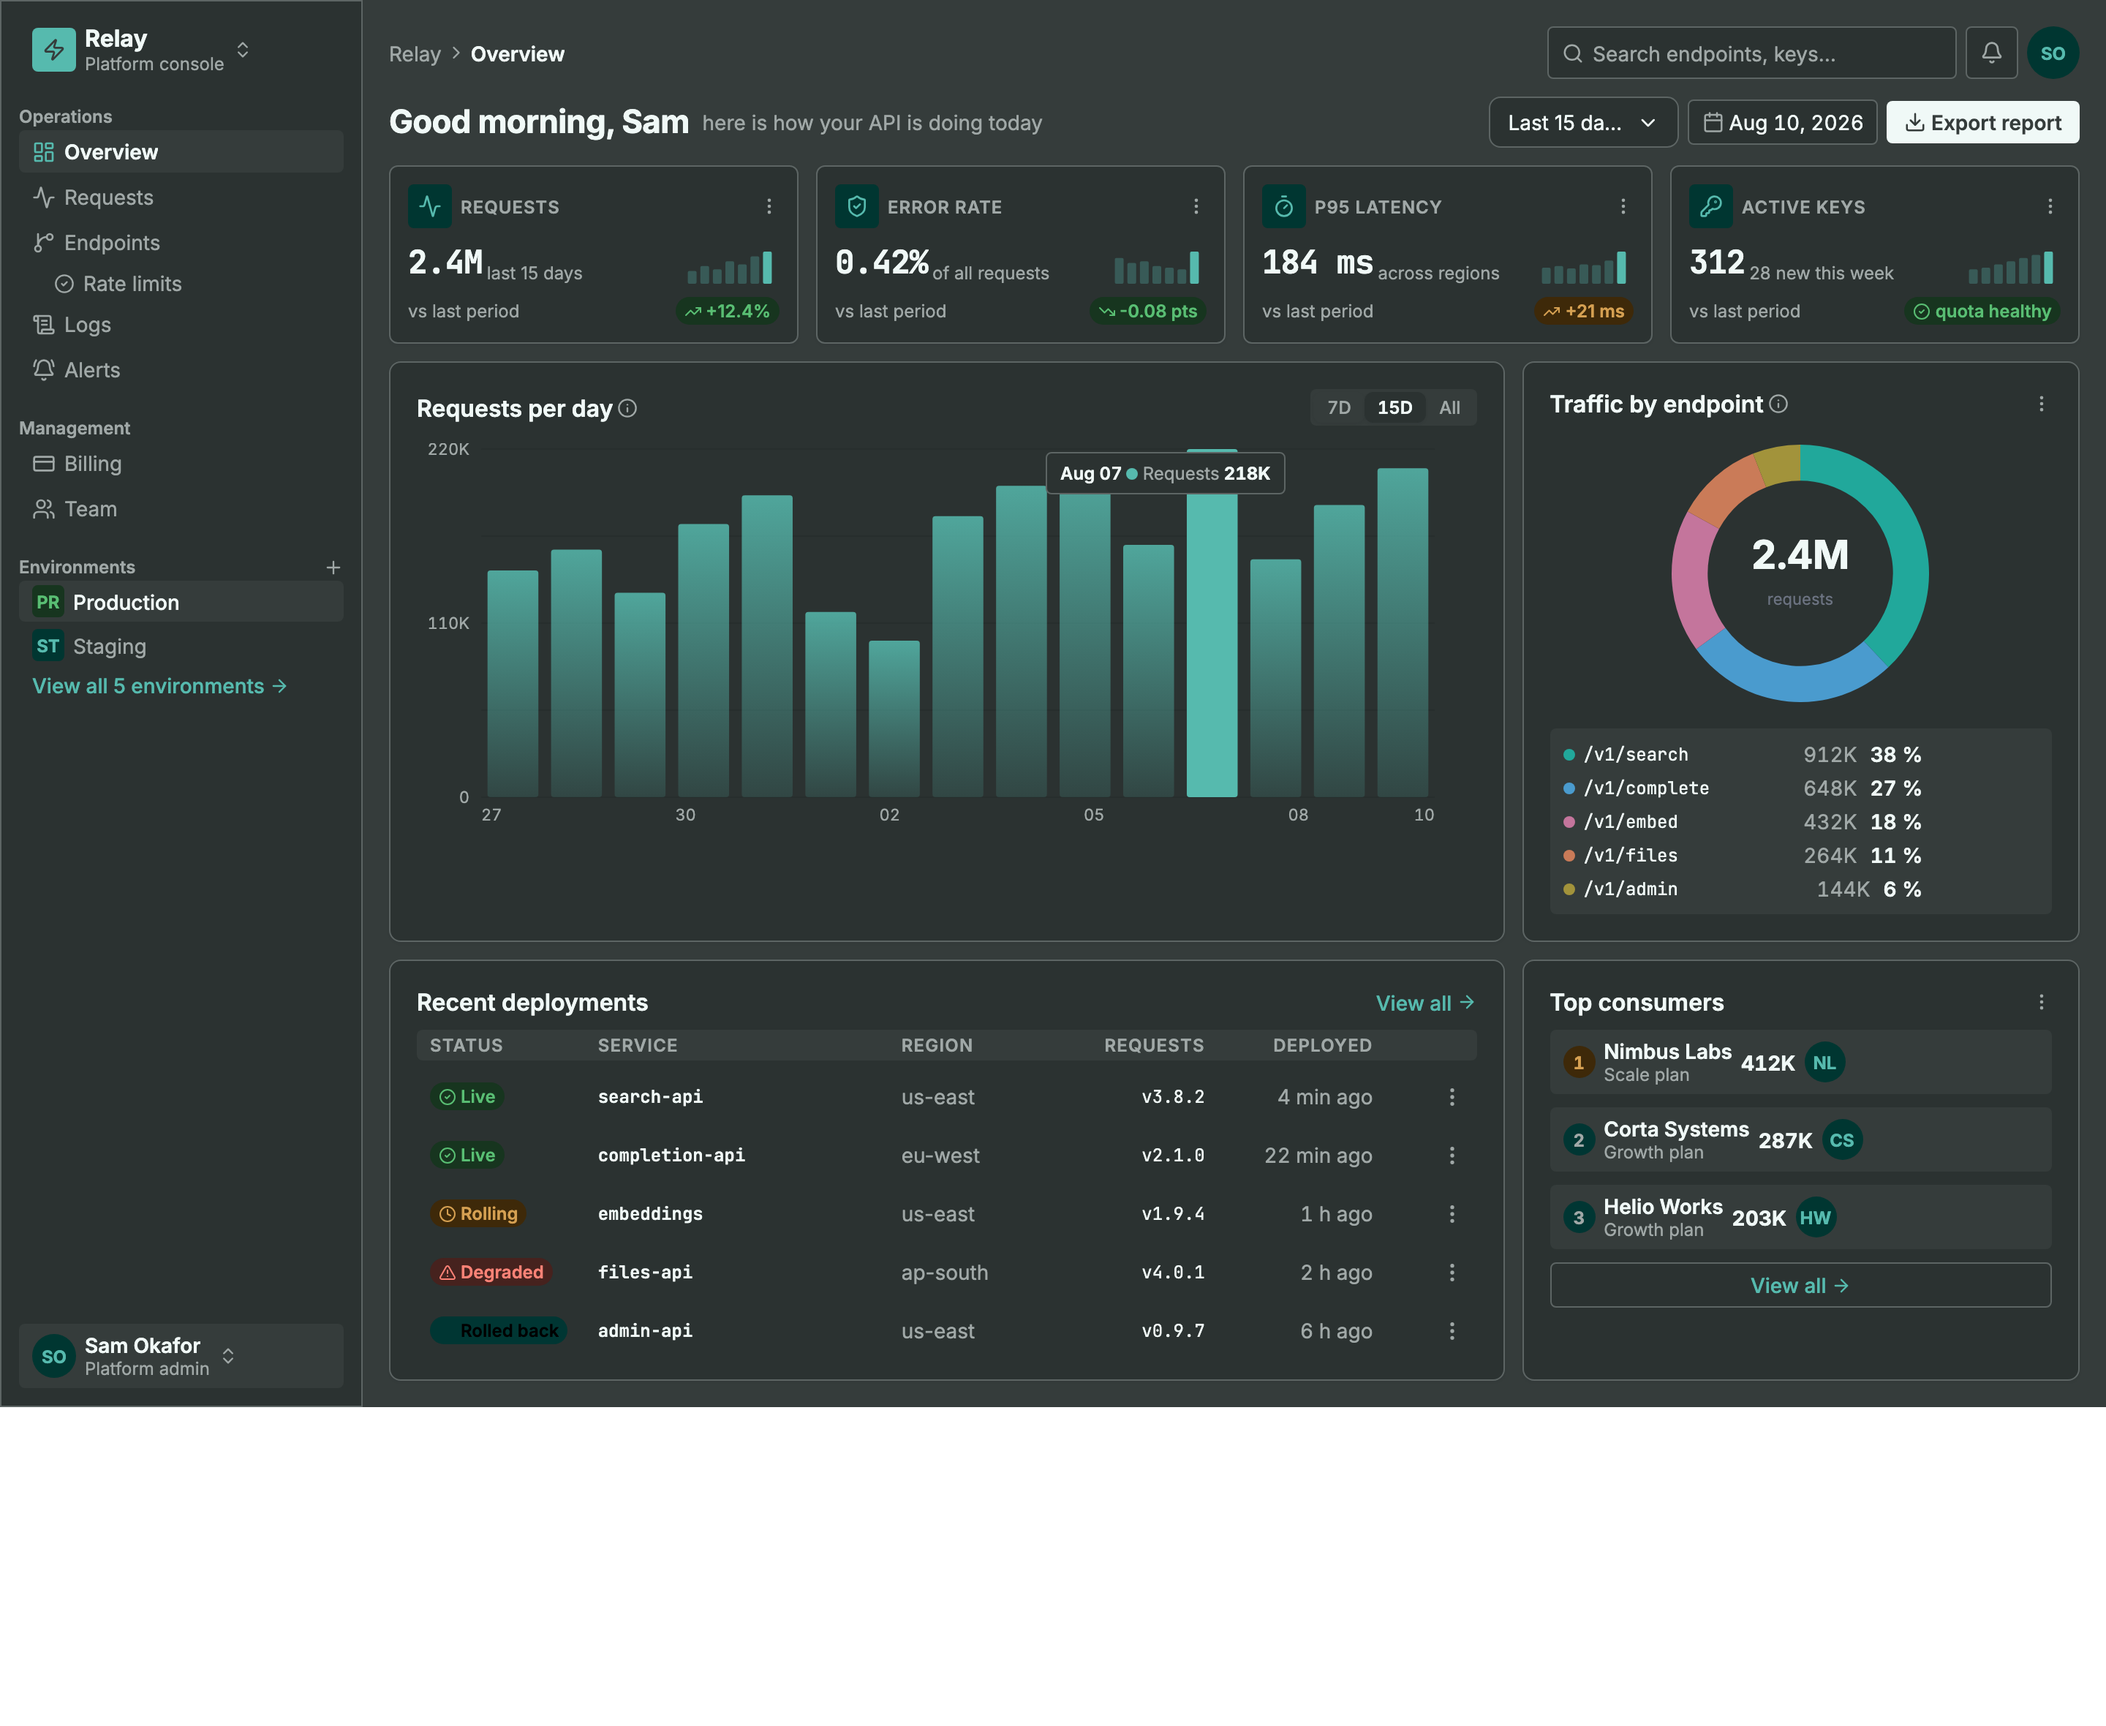
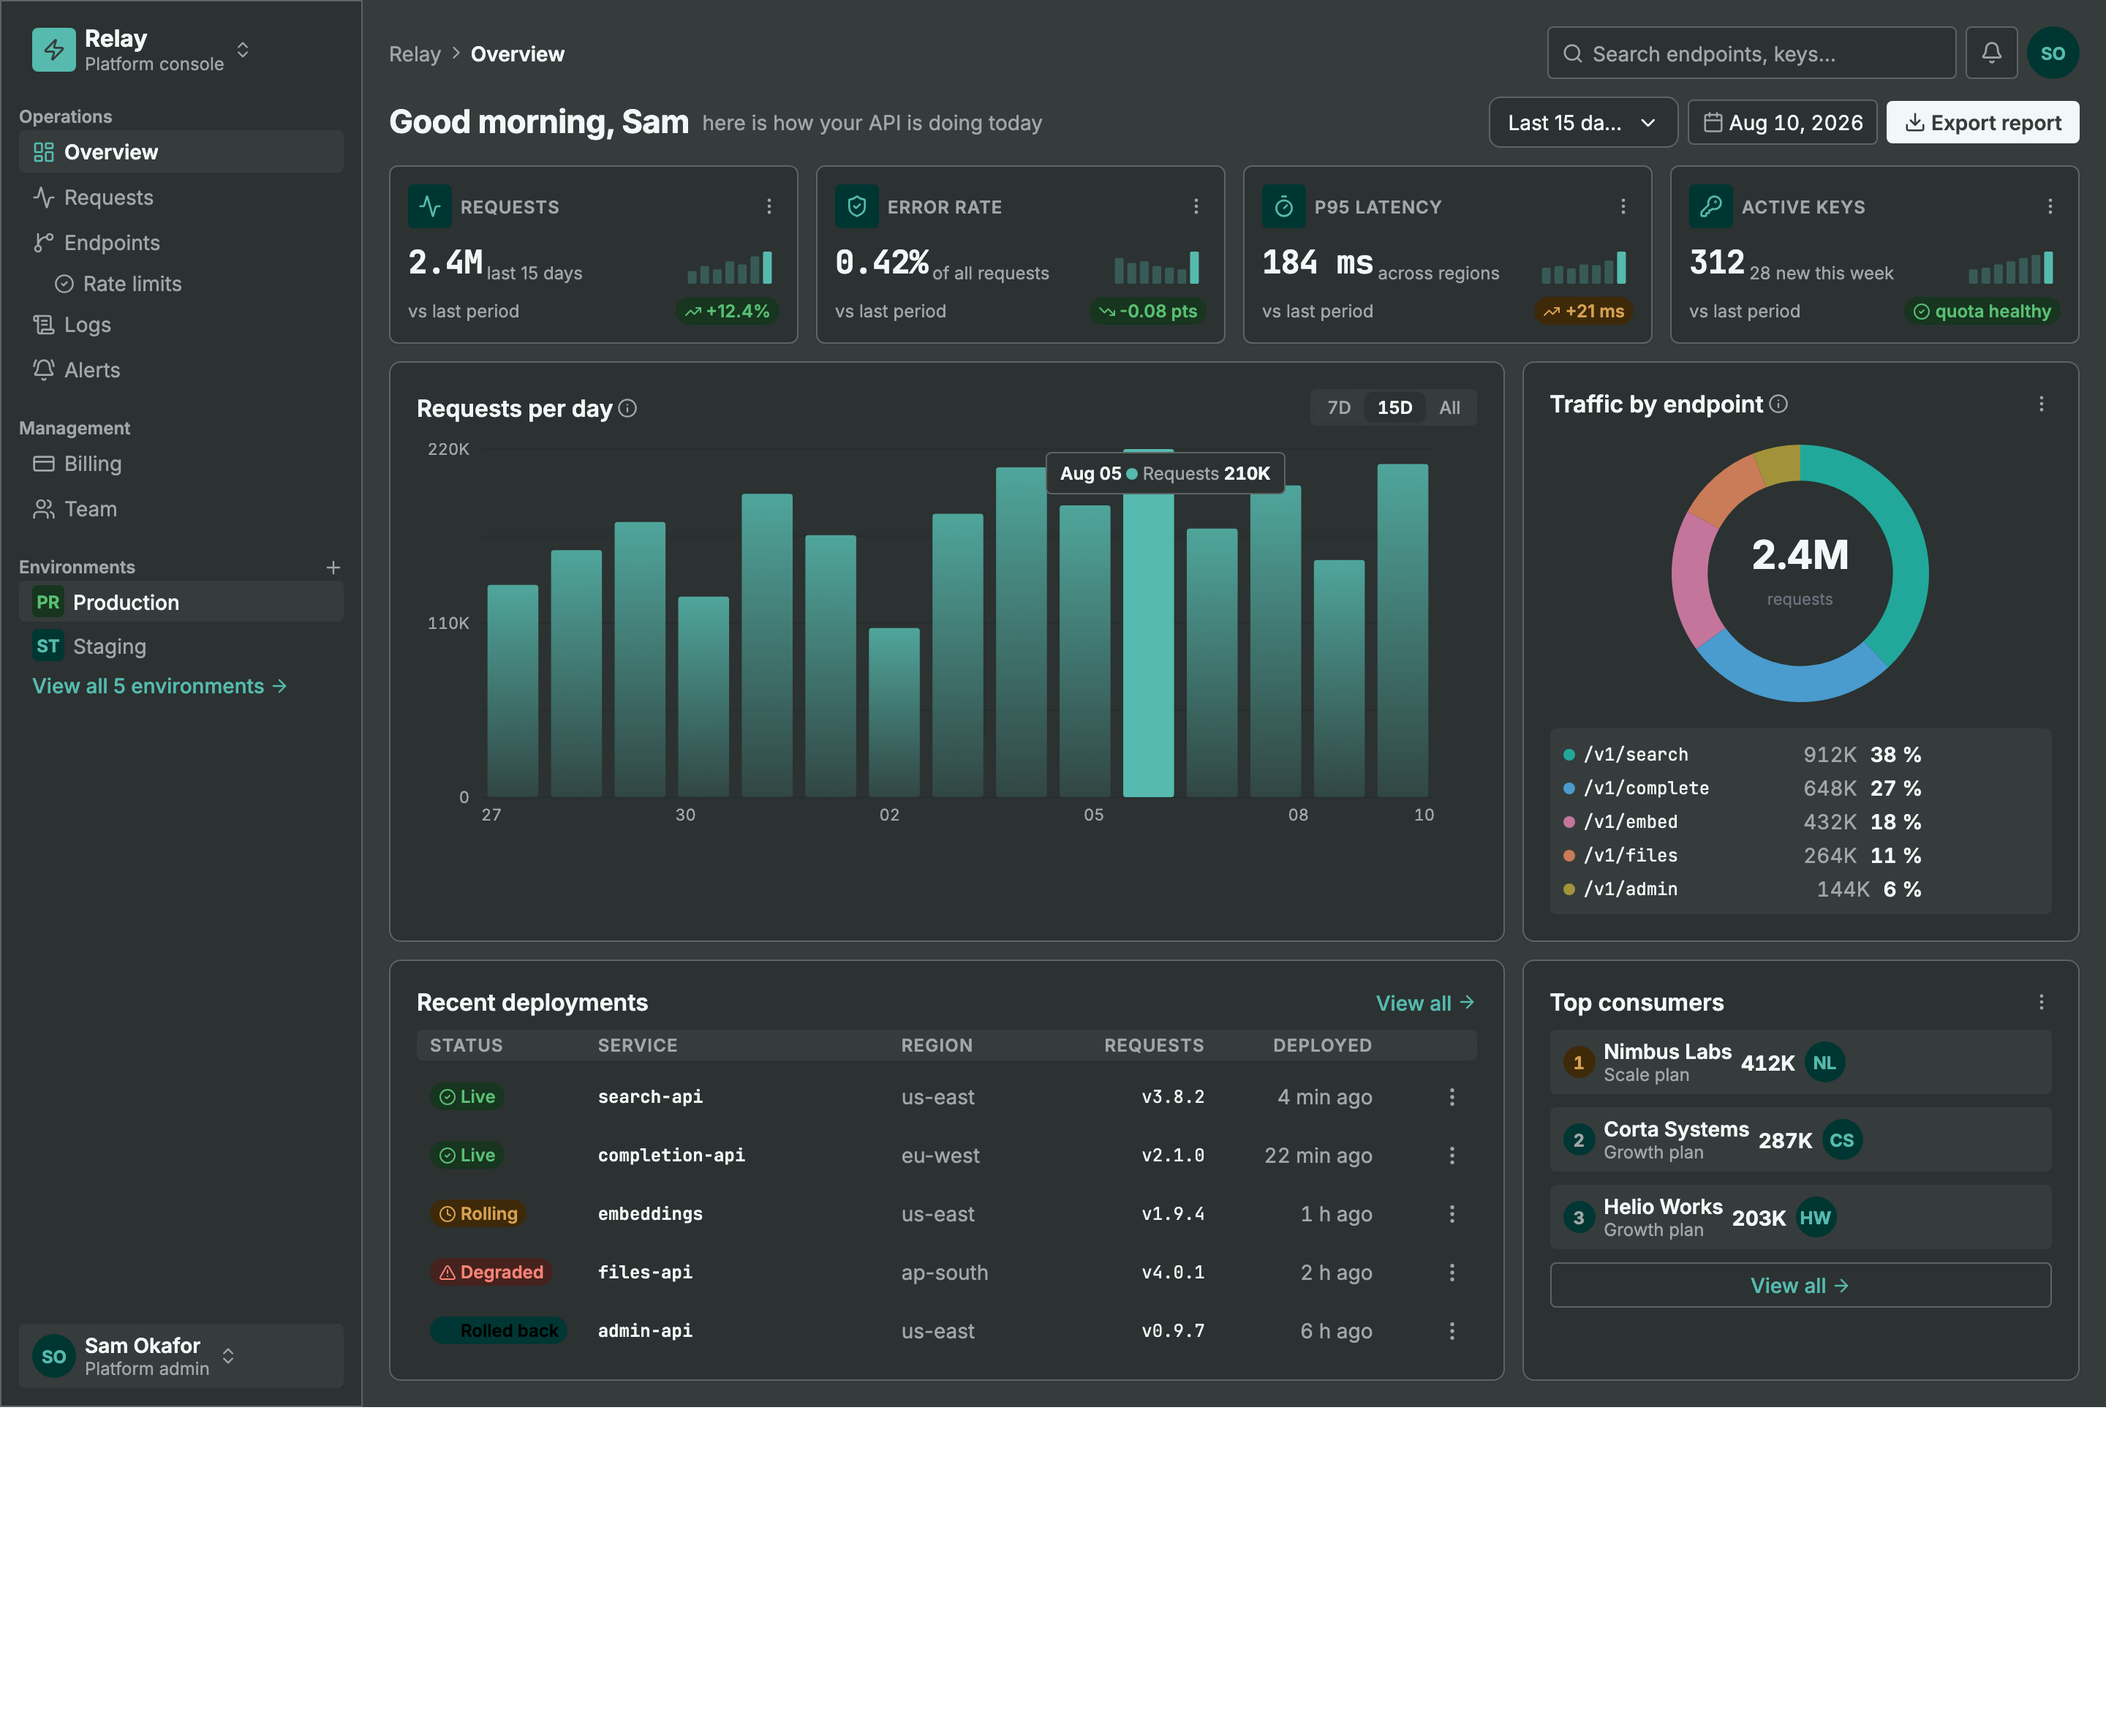
release: replace hero dashboards with original-data builds
The first ops-dashboard hero was the internal acceptance test against a
published screenshot and still mirrored that screenshot's figures and
two of its names — not something to ship in the README. Replaced:

- docs/framesmith-support-dashboard.png: a customer-support desk
  (Beacon) with entirely invented data — tickets/target, first-reply
  median, SLA breaches, CSAT, a tickets-by-channel donut, and new agent
  names throughout. Same toolkit vocabulary, same score 95 gate.
- docs/framesmith-api-console.png: the Relay console re-rendered with a
  new daily-traffic pattern and tooltip (its labels and figures were
  already original).
- README alt text updated to match; the internal proof screenshots stay
  out of the repo.

diff --git a/README.md b/README.md
@@ -14,7 +14,7 @@ An open-source MCP server that turns your AI coding agent into a capable UI desi
 
 Both screens below were built end-to-end by an agent with framesmith's own vocabulary — one `generate_design_system` call each (a seed color + a personality), stamped patterns, data-bound charts, and every quality gate cleared (score ≥ 95, states designed, stress-tested, both themes):
 
-![A field-operations dashboard built by an agent in framesmith, light theme: sidebar with grouped navigation and an account row, four KPI cards with sparklines and tinted delta pills, a bar chart with a highlighted day and a floating tooltip, a data-bound coverage donut with a center total and legend, a recent-activity table with tinted status chips, and a ranked top-agents panel. Generated from one seed (#2563EB) on the "technical" personality.](https://raw.githubusercontent.com/vicmaster/framesmith/master/docs/framesmith-ops-dashboard.png?v=2.0)
+![A customer-support dashboard built by an agent in framesmith, light theme: sidebar with grouped navigation and an account row, four KPI cards (tickets resolved, first reply, SLA breaches, CSAT) with sparklines and tinted delta pills, a tickets-per-day bar chart with a highlighted day and a floating tooltip, a data-bound tickets-by-channel donut with a center total and legend, an agent-workload table with tinted status chips, and a top-performers panel. Generated from one seed (#2563EB) on the "technical" personality.](https://raw.githubusercontent.com/vicmaster/framesmith/master/docs/framesmith-support-dashboard.png?v=2.0)
 
 ![An API platform console built by the same toolkit, dark theme: teal design system on the "data-dense" personality with JetBrains Mono figures — request/error-rate/latency KPI cards with sparklines, a requests-per-day bar chart with a highlighted day, a traffic-by-endpoint donut, a deployments table with Live/Rolling/Degraded status chips, and a top-consumers panel.](https://raw.githubusercontent.com/vicmaster/framesmith/master/docs/framesmith-api-console.png?v=2.0)
 
